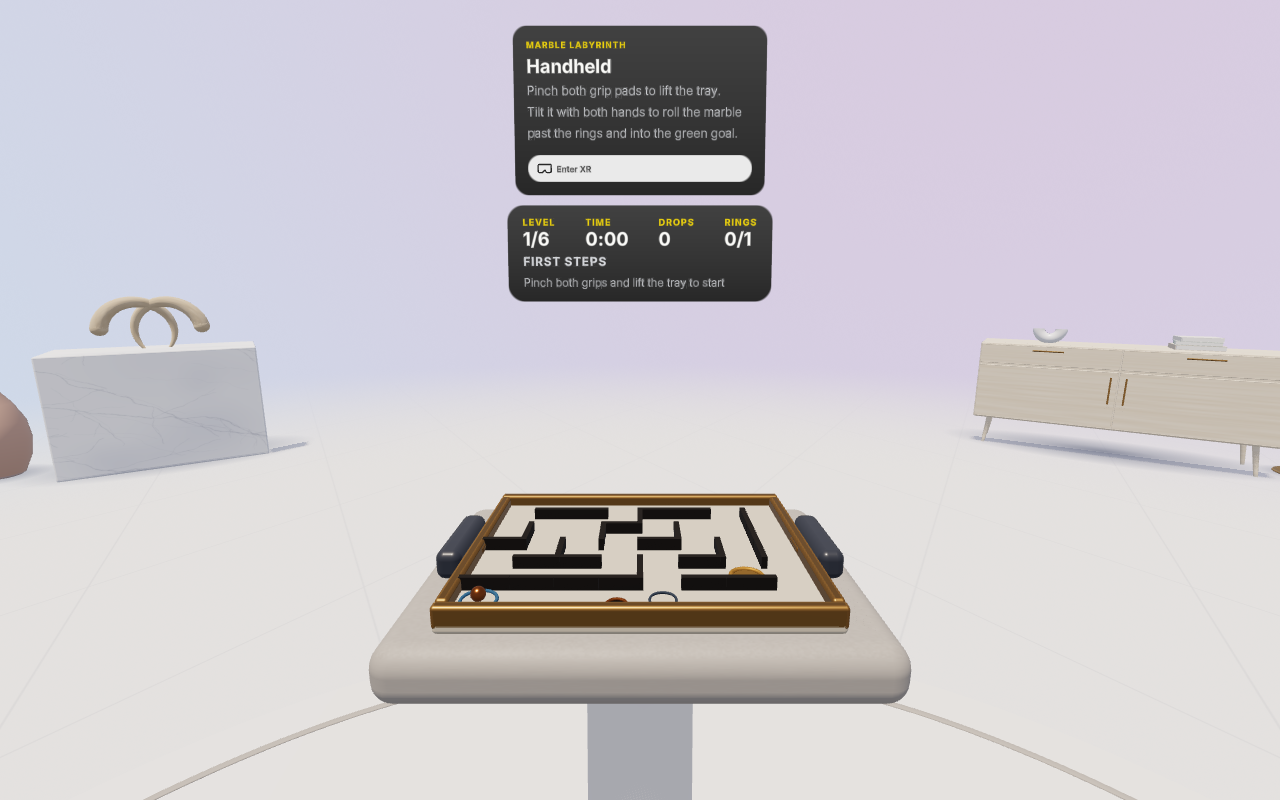
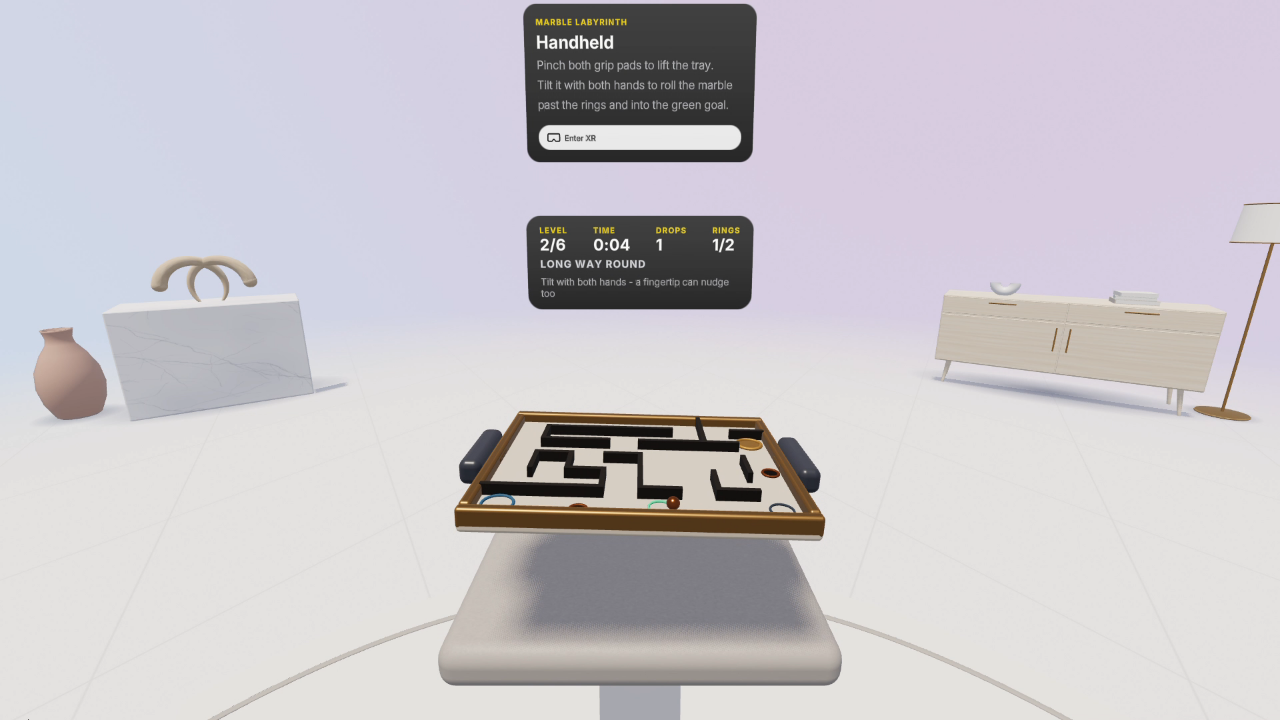
Docs: live Pages and source links, 16:9 attract thumbnail
README gains a direct link to the deployed build; SUBMISSION.md now carries the real build and source URLs, plus the six-point capture checklist the final take was recorded against. The thumbnail is a 1280x720 frame from that take, so it matches the video's framing.

diff --git a/SUBMISSION.md b/SUBMISSION.md
@@ -98,8 +98,9 @@ including the scripted drop and the tip reset, then the summary and the restart.
 8. **2:40–3:00 — Behind the curtain.** Ten seconds of board-local gravity code,
    then the hand-interaction table, then the URL/QR. End on the tray in hands.
 
-`docs/screenshots/attract.png` is a 1280x800 frame straight out of the attract
-mode; it works as the submission thumbnail.
+`docs/screenshots/attract.png` is a 1280x720 frame straight out of the attract
+mode take, level two at `2/6`, with the tray lifted and tilted; it works as the
+submission thumbnail.
 
 Record at 4K if possible, capture the headset view plus a second camera on the
 hands when the real device is available.
@@ -109,24 +110,43 @@ hands when the real device is available.
 The hands-free loop is about 70 s long, so a single take covers the whole video
 brief: record from level one's lift to the summary's restart and stop there.
 
-1. Open the *deployed* build with `?demo`, in a normal Chrome window at 16:9.
+1. Open the *deployed* build with `?demo` — not `npm run dev`. The dev server
+   injects the IWER runtime, which draws its own floating **Enter XR** pill over
+   the top of the welcome panel; it is absent from `dist` and from the Pages
+   build, so nothing on the production URL has to be hidden.
 2. Press `F11` first: fullscreen removes the tab strip and the address bar, which
    otherwise show a localhost URL in the frame.
-3. Park the mouse pointer off the page, and let the run get to level one before
-   you start recording — the attract mode keeps looping, so it is easy to catch
-   the tail of the previous run.
-4. Stop after the summary tips back into a new run. That is roughly 70 s: six
+3. Record the **screen**, not the window. `Win+Alt+R` captures the active window
+   rect, which is taller than the page once the chrome is hidden and leaves a
+   band of black pixels (112 px in one take) across the top. A display capture,
+   or a recording region drawn around the page only, keeps the frame edge to edge.
+   The app itself is fine: the canvas tracks `window.innerWidth/innerHeight`
+   through any resize, anchored at the top left.
+4. Move the pointer completely off the app — the bottom-right corner of the
+   desktop, or another display. It sits in the frame for the whole take
+   otherwise, frozen over the room.
+5. Let the run reach level one before you start recording — the attract mode
+   keeps looping, so it is easy to catch the tail of the previous run.
+6. Stop after the summary tips back into a new run. That is roughly 70 s: six
    mazes, one scripted trap-hole drop, one tip reset, the summary and the restart.
-5. Trim the recording to the lift at the start and the restart at the end; the
-   narration beats (1, 2 and 8 in the list above) can be recorded over it.
+   A good take reads `1/6` at `0:00` on the first second, `6/6` with `3/3` rings
+   at about `0:11` of level time, and back to `1/6` before the file ends.
 
-Keep the file out of git — the raw Game Bar capture is close to 100 MB. Publish
-it to an unlisted YouTube link, or re-encode it down to a few megabytes and use
+Check the frame, not just the playthrough: the picture must fill the video edge
+to edge, the cursor must be gone, and no overlay should touch the HUD. Game Bar
+audio is captured but quiet — the synthesised cues peak around -30 dBFS — so
+raise the system volume before the take rather than re-recording a good run.
+
+Keep the file out of git — the raw Game Bar capture is 60–100 MB. Publish it to
+an unlisted YouTube link, or re-encode it down to a few megabytes and use
 `git add -f` if it has to live beside the build.
 
-## Links to fill in before submission
+## Links
 
-- Deployed build: `https://<host>/`
-- Source: `https://github.com/<user>/handheld`
-- Video: `https://youtu.be/<id>` (unlisted), or `https://<host>/handheld-demo.mp4`
-  if a compressed copy is shipped with the build
+- Playable build: <https://amine0007.github.io/handheld/> — plain `/` is the
+  hands-only game, `?demo` runs the hands-free attract mode, `?keys` maps the
+  arrow keys to the tray. WebXR needs HTTPS, which Pages provides.
+- Source: <https://github.com/amine0007/handheld>
+- Video: `https://youtu.be/<id>` — replace `<id>` with the unlisted upload of the
+  attract mode take (71 s, 1920x1080, one pass, no cuts). The raw capture is
+  94 MB, so it is hosted rather than committed.

diff --git a/README.md b/README.md
@@ -9,6 +9,11 @@ Built with [IWSDK](https://iwsdk.dev) 1.1 (`@iwsdk/core`) and Three.js for the
 Meta Horizon Start Developer Competition. Hand tracking first, controller
 friendly.
 
+**[Play in the browser](https://amine0007.github.io/handheld/?demo)** — that
+opens the hands-free attract mode; load
+<https://amine0007.github.io/handheld/> on the headset for the real thing, or
+add `?keys` on a laptop.
+
 ![The tray resting on its stand](docs/screenshots/scene.png)
 
 ![The maze up close: brass rim, pale stone deck, copper marble](docs/screenshots/tray.png)
